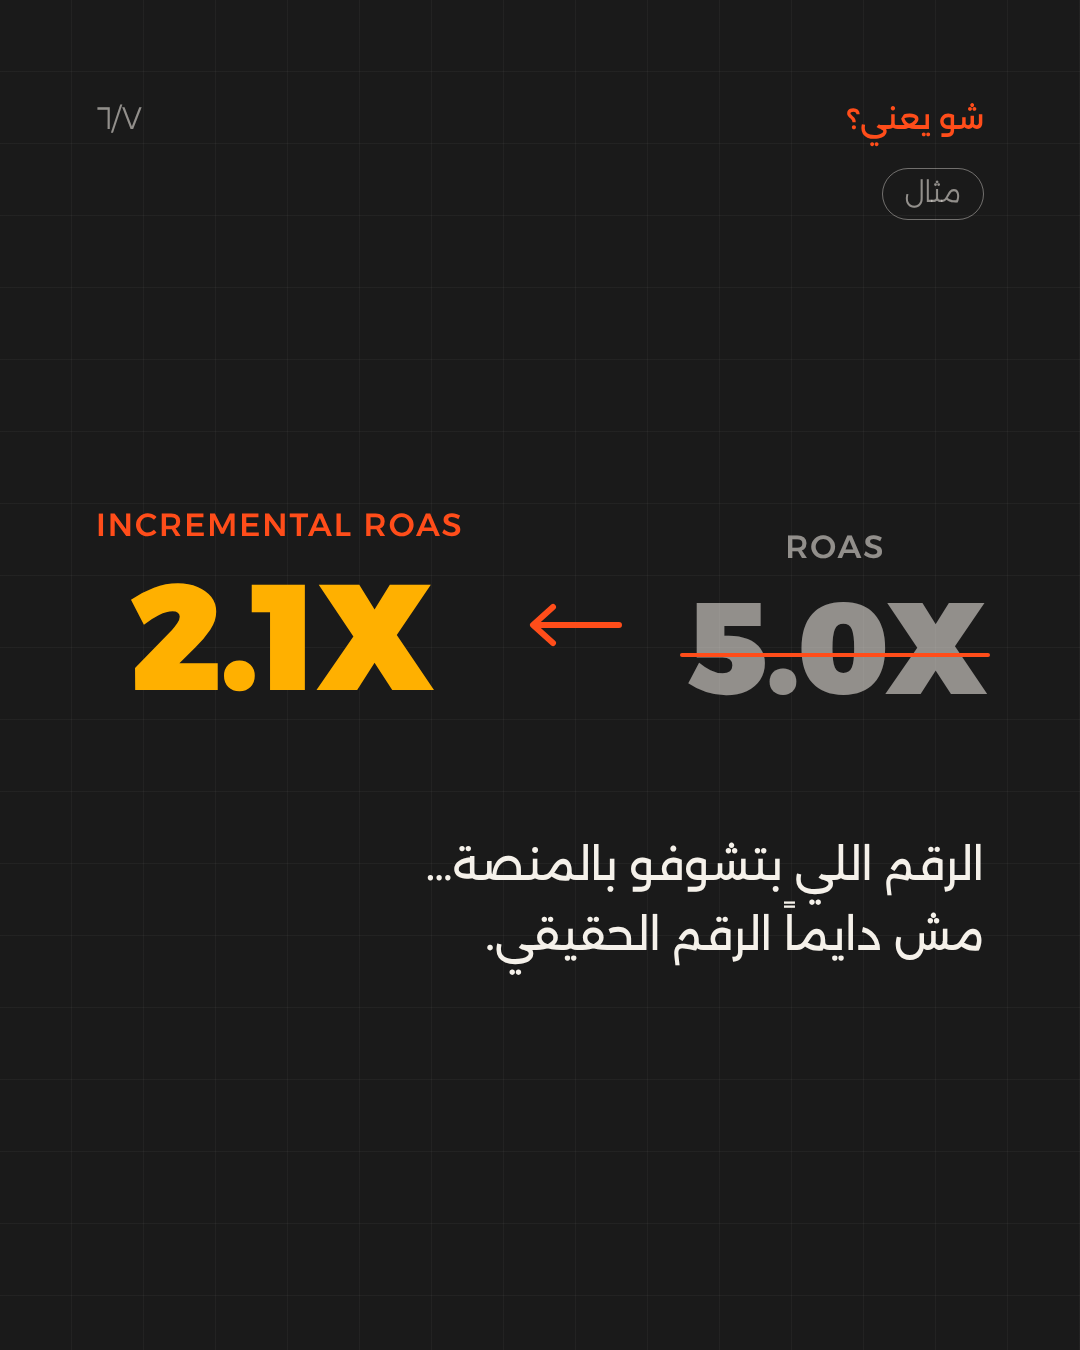
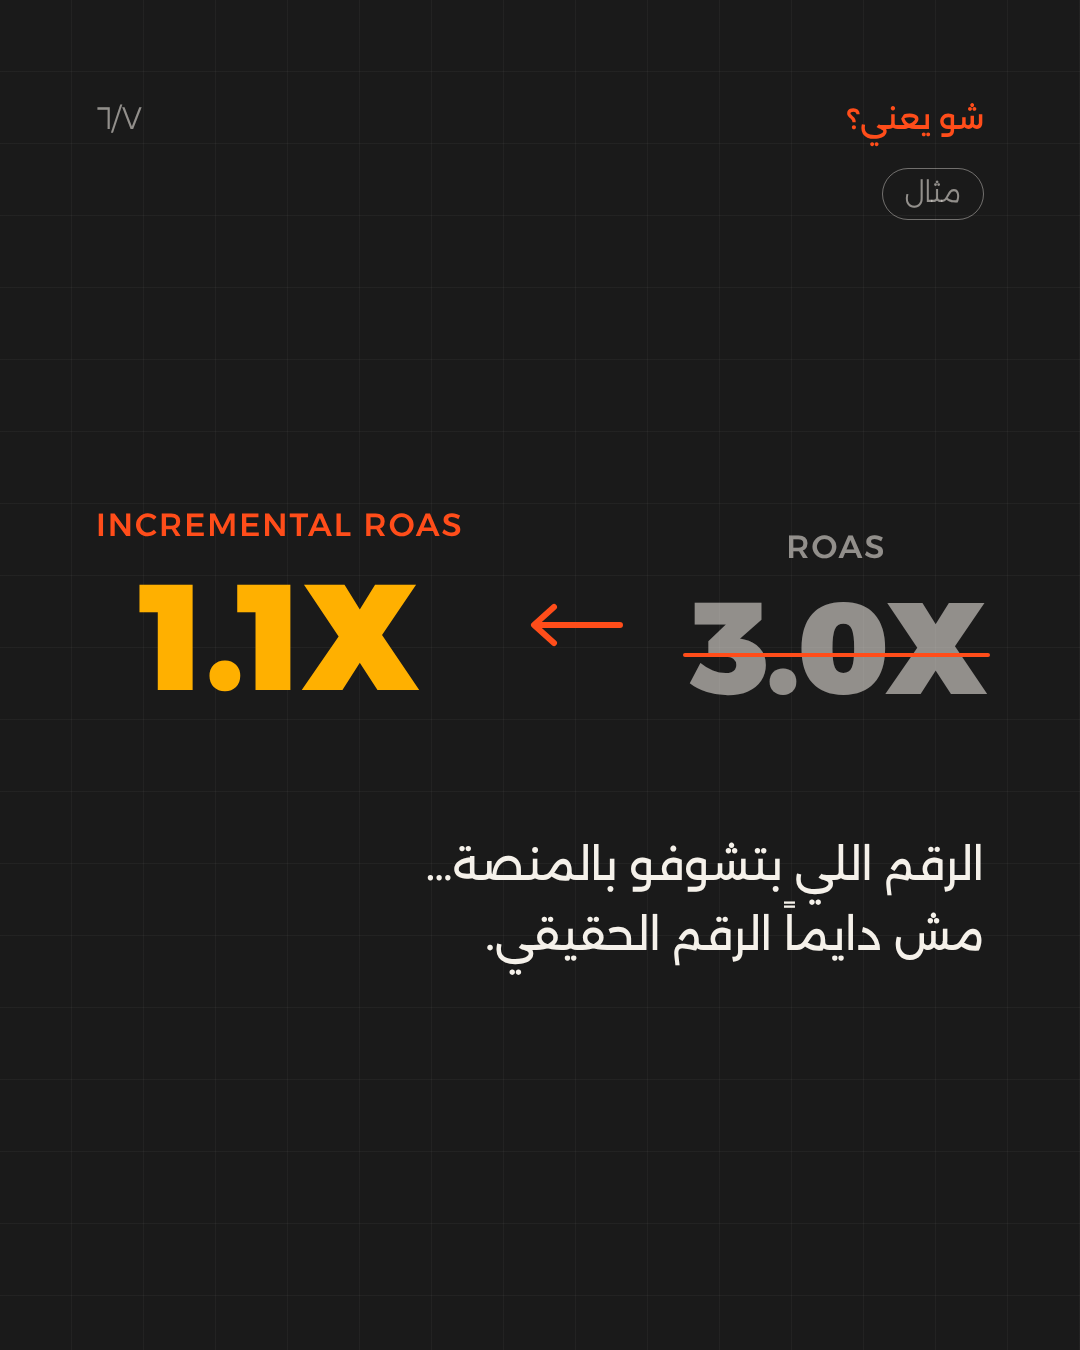
fix: make slide 6 use the carousel's own example numbers
Slide 2 works ROAS out as 3X, so slide 6 now shows 3.0X instead of the
reel's 5.0X. Incremental ROAS follows from slide 3: 15 of 40 sales are
incremental, $30,000 x 15/40 = $11,250 on $10,000 spend = 1.1X.

Claude-Session: https://claude.ai/code/session_017eV6GCXmJHvCBWWVo8HGHv

Changed region(s): [[0.1222, 0.4356, 0.3972, 0.5289], [0.6417, 0.4356, 0.7028, 0.4978]]

diff --git a/carousels/incrementality-roas/slides/slide-6.html b/carousels/incrementality-roas/slides/slide-6.html
@@ -29,12 +29,12 @@
         <div class="pair">
           <div class="cell">
             <div class="latin-tag muted lab"><bdi>ROAS</bdi></div>
-            <div class="num ltr seen"><span class="strike">5.0X</span></div>
+            <div class="num ltr seen"><span class="strike">3.0X</span></div>
           </div>
           <svg class="arrow" width="96" height="48" viewBox="0 0 48 24" aria-hidden="true"><path d="M46 12H4M13 3L3 12l10 9" fill="none" stroke="#FF4D1A" stroke-width="3" stroke-linecap="round" stroke-linejoin="round"/></svg>
           <div class="cell">
             <div class="latin-tag or lab"><bdi>INCREMENTAL ROAS</bdi></div>
-            <div class="num ltr gold real">2.1X</div>
+            <div class="num ltr gold real">1.1X</div>
           </div>
         </div>
         <div class="text big">الرقم اللي بتشوفو بالمنصة… مش دايماً الرقم الحقيقي.</div>
